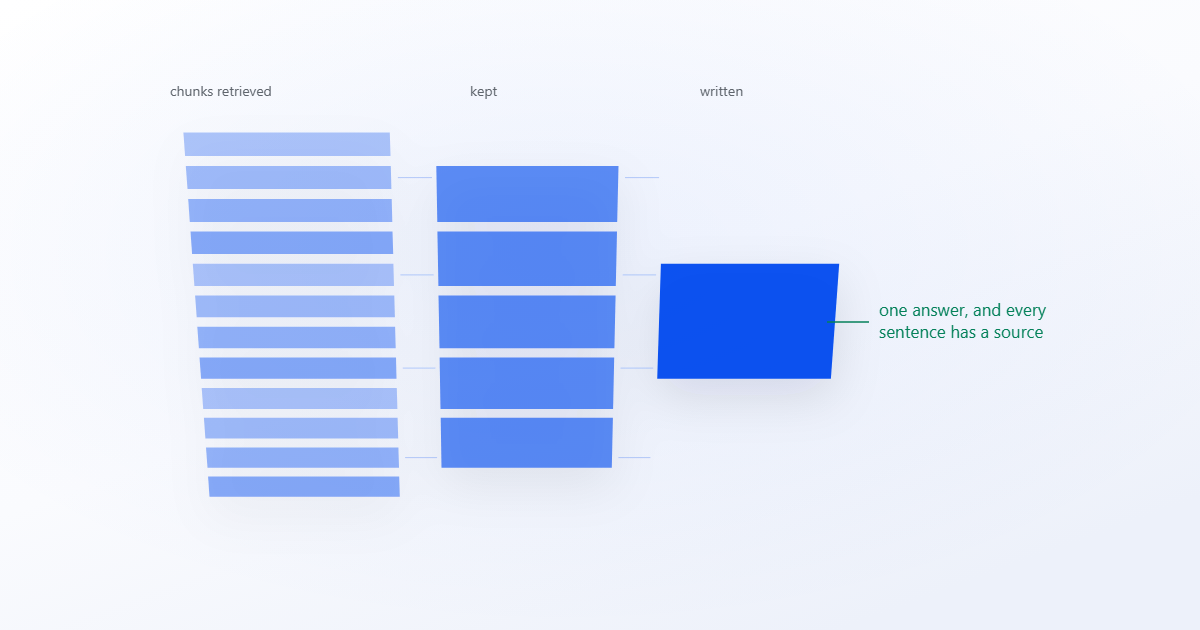
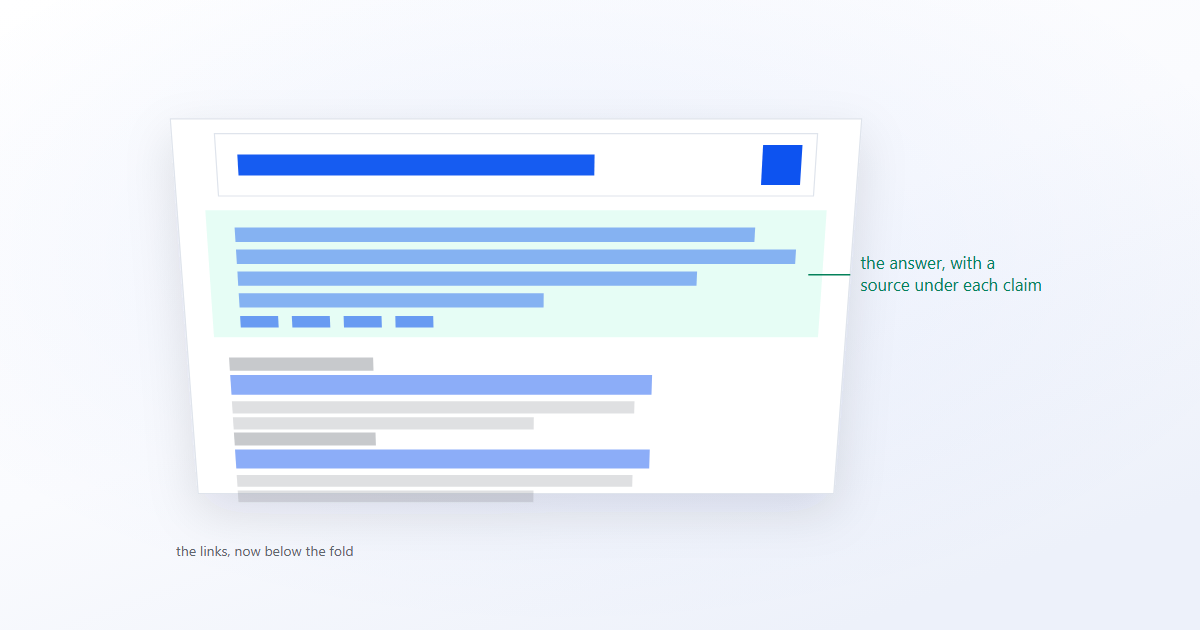
Draw the thing, not a bar chart of it
Seven of twenty covers were horizontal bars, and a bar says nothing to a
reader who has not already read the post. A bar chart is the right figure
when the subject is a quantity. For most of these the subject is a screen,
and anyone who has used Google knows what one looks like, so drawing it
carries more in less ink.

  the series      a search page: the box, the typed query, three results
                  with a url, a blue title and two lines of snippet
  AI Overviews    the same page with the answer panel above the links,
                  citation chips under it, and the first blue link pushed
                  to the edge of the frame
  AI Mode         a question, six sub-queries fanned out as chips, lines
                  converging into one written answer
  the CMS post    three screens: the draft, the rules with two failing,
                  and the page that came out
  vibe code rush  the products themselves on a timeline, app windows with
                  a header and body, the gap between them closing until
                  the last two overlap
  Chinese AI      one small app nobody opens, against a surface full of
                  functions with the same feature embedded inside it

The shipping timeline took two passes. The first drew products as narrow
vertical cards, which is a bar with a different silhouette and read as
one. Widening them into windows with a header strip and body lines is
what makes them products.
[…]

diff --git a/scripts/make-covers.py b/scripts/make-covers.py
@@ -138,6 +138,44 @@ def lifted(marks: str) -> str:
     return f'  <g filter="url(#lift)">{marks}</g>'
 
 
+# --------------------------------------------------- interface primitives
+#
+# A bar chart is the right figure when the subject is a quantity. For most of
+# these posts the subject is a screen, and a reader who has used Google knows
+# what one looks like, so drawing it says more in less ink than any bar could.
+# Rounded corners are unavailable on a projected quadrilateral, so these are
+# plain polygons; at this scale nobody reads the corner.
+
+def slab(p, u0, v0, u1, v1, fill=None, o=1.0, delay=0.0, stroke=None):
+    f = fill or BLUE
+    extra = f' stroke="{stroke}" stroke-width="1.2"' if stroke else ""
+    return (f'<polygon class="c" points="{p.quad(u0, v0, u1, v1)}" fill="{f}"{extra} '
+            f'style="--o:{o};animation-delay:{delay:.2f}s"/>')
+
+
+def textline(p, u0, u1, v, h=0.055, o=0.22, delay=0.0, fill=None):
+    """A line of body text, the way a wireframe draws one."""
+    return slab(p, u0, v - h / 2, u1, v + h / 2, fill or MUTED, o, delay)
+
+
+def searchbox(p, u0, u1, v, query=0.42, delay=0.0):
+    """The box itself: a field, the typed query, and the button."""
+    out = [slab(p, u0, v - 0.075, u1, v + 0.075, "#ffffff", 1, delay, RULE)]
+    out.append(textline(p, u0 + 0.03, u0 + 0.03 + query, v, 0.05, 0.9, delay + 0.1, BLUE))
+    out.append(slab(p, u1 - 0.075, v - 0.048, u1 - 0.02, v + 0.048, BLUE, 0.95, delay + 0.15))
+    return "".join(out)
+
+
+def result(p, u0, v, w=0.62, delay=0.0, title_o=0.95):
+    """One organic result: url, blue title, two lines of snippet."""
+    return "".join([
+        textline(p, u0, u0 + w * 0.34, v, 0.035, 0.35, delay),
+        textline(p, u0, u0 + w, v + 0.055, 0.052, title_o, delay + 0.04, BLUE),
+        textline(p, u0, u0 + w * 0.96, v + 0.115, 0.033, 0.20, delay + 0.08),
+        textline(p, u0, u0 + w * 0.72, v + 0.158, 0.033, 0.20, delay + 0.10),
+    ])
+
+
 # ------------------------------------------------------------------ figures
 
 def crawling() -> str:
@@ -268,29 +306,21 @@ def pagerank() -> str:
 
 
 def ai_overviews() -> str:
-    """#6 — retrieval into generation. Many chunks narrow into one answer."""
-    p = Plane(516, 322, 660, 450, 3, 12)
-    out = []
-    for i in range(12):
-        out.append(f'<polygon class="c" points="{p.quad(0.05, i + 0.15, 0.95, i + 0.85)}" '
-                   f'fill="{BLUE}" style="--o:{0.30 + 0.05 * (i % 4):.2f};animation-delay:{i * 0.05:.2f}s"/>')
-    for i in range(5):
-        out.append(f'<polygon class="c" points="{p.quad(1.15, i * 2 + 1.15, 1.95, i * 2 + 2.85)}" '
-                   f'fill="{BLUE}" style="--o:0.62;animation-delay:{0.7 + i * 0.07:.2f}s"/>')
-    out.append(f'<polygon class="c" points="{p.quad(2.15, 4.15, 2.95, 7.85)}" fill="{BLUE}" '
-               f'style="--o:0.95;animation-delay:1.15s"/>')
-    for a, b in ((0.98, 1.13), (1.98, 2.13)):
-        for i in range(4):
-            x0, y0 = p(a, 1.5 + i * 3)
-            x1, y1 = p(b, 1.5 + i * 3)
-            out.append(f'<line class="c" x1="{x0:.1f}" y1="{y0:.1f}" x2="{x1:.1f}" y2="{y1:.1f}" '
-                       f'stroke="{BLUE}" stroke-width="1" style="--o:0.25;animation-delay:0.9s"/>')
-    nx, ny = p(2.95, 6)
+    """#6 — what the page looks like once the answer arrives above the links."""
+    p = Plane(516, 314, 690, 470, 1, 1)
+    out = [slab(p, 0.02, 0.02, 0.98, 0.98, "#ffffff", 1, 0, RULE)]
+    out.append(searchbox(p, 0.08, 0.92, 0.13, 0.50, 0.1))
+    out.append(slab(p, 0.06, 0.24, 0.94, 0.56, ACCENT, 0.10, 0.35))
+    for i, w in enumerate([0.74, 0.80, 0.66, 0.44]):
+        out.append(textline(p, 0.10, 0.10 + w, 0.30 + i * 0.055, 0.036, 0.42, 0.45 + i * 0.06, BLUE))
+    for k in range(4):
+        out.append(slab(p, 0.10 + k * 0.075, 0.505, 0.155 + k * 0.075, 0.535, BLUE, 0.55, 0.75 + k * 0.05))
+    for i in range(2):
+        out.append(result(p, 0.08, 0.63 + i * 0.20, 0.62, 0.95 + i * 0.1, 0.45))
+    nx, ny = p(0.94, 0.40)
     return wrap(lifted("".join(out))
-                + note(nx + 34, ny, ["one answer, and every", "sentence has a source"])
-                + text(None, 170, 96, "chunks retrieved", 14, MUTED, "start")
-                + text(None, 470, 96, "kept", 14, MUTED, "start")
-                + text(None, 700, 96, "written", 14, MUTED, "start"))
+                + note(nx + 28, ny, ["the answer, with a", "source under each claim"])
+                + text(None, 176, 556, "the links, now below the fold", 14, MUTED, "start"))
 
 
 def reranking() -> str:
@@ -316,30 +346,27 @@ def reranking() -> str:
 
 
 def ai_mode() -> str:
-    """#8 — fan-out. One question becomes several searches, then one answer."""
-    p = Plane(516, 320, 620, 450, 1, 1)
-    subs = [0.14, 0.31, 0.5, 0.69, 0.86]
-    out = []
-    for i, s in enumerate(subs):
-        out.append(f'<path class="draw" d="{p.path([(0.5, 0.06), (0.5, 0.2), (s, 0.34), (s, 0.5)])}" '
-                   f'fill="none" stroke="{BLUE}" stroke-width="1.5" opacity="0.45" '
-                   f'style="--len:400;animation-delay:{i * 0.07:.2f}s"/>')
-        out.append(f'<path class="draw" d="{p.path([(s, 0.66), (s, 0.8), (0.5, 0.9), (0.5, 0.96)])}" '
-                   f'fill="none" stroke="{BLUE}" stroke-width="1.5" opacity="0.45" '
-                   f'style="--len:400;animation-delay:{0.5 + i * 0.07:.2f}s"/>')
-        for k in range(3):
-            x, y = p(s + (k - 1) * 0.035, 0.58)
-            out.append(f'<circle class="c" cx="{x:.1f}" cy="{y:.1f}" r="6" fill="{BLUE}" '
-                       f'style="--o:{0.8 - k * 0.2:.2f};animation-delay:{0.35 + i * 0.07:.2f}s"/>')
-    for u, v, r, o in ((0.5, 0.06, 13, 0.95), (0.5, 0.96, 15, 1.0)):
-        x, y = p(u, v)
-        out.append(f'<circle class="c" cx="{x:.1f}" cy="{y:.1f}" r="{r}" fill="{BLUE}" '
-                   f'style="--o:{o};animation-delay:0.1s"/>')
-    nx, ny = p(0.86, 0.58)
+    """#8 — one question becomes several searches, and one answer comes back."""
+    p = Plane(516, 314, 700, 470, 1, 1)
+    out = [slab(p, 0.02, 0.02, 0.98, 0.98, "#ffffff", 1, 0, RULE)]
+    out.append(searchbox(p, 0.08, 0.92, 0.12, 0.56, 0.1))
+    chips = [(0.09, 0.24), (0.35, 0.20), (0.60, 0.26), (0.09, 0.19), (0.31, 0.23), (0.57, 0.21)]
+    for k, (u, w) in enumerate(chips):
+        v = 0.29 if k < 3 else 0.375
+        out.append(slab(p, u, v - 0.032, u + w, v + 0.032, BLUE, 0.13, 0.4 + k * 0.06))
+        out.append(textline(p, u + 0.02, u + w - 0.03, v, 0.03, 0.45, 0.45 + k * 0.06, BLUE))
+    for k, (u, w) in enumerate(chips):
+        v = 0.29 if k < 3 else 0.375
+        sx, sy = p(u + w / 2, v + 0.04)
+        ex, ey = p(0.5, 0.52)
+        out.append(f'<line class="c" x1="{sx:.1f}" y1="{sy:.1f}" x2="{ex:.1f}" y2="{ey:.1f}" '
+                   f'stroke="{BLUE}" stroke-width="1" style="--o:0.18;animation-delay:0.85s"/>')
+    out.append(slab(p, 0.06, 0.55, 0.94, 0.93, ACCENT, 0.10, 0.95))
+    for i, w in enumerate([0.78, 0.82, 0.70, 0.76, 0.50]):
+        out.append(textline(p, 0.10, 0.10 + w, 0.61 + i * 0.062, 0.036, 0.40, 1.05 + i * 0.05, BLUE))
+    nx, ny = p(0.83, 0.33)
     return wrap(lifted("".join(out))
-                + note(nx + 40, ny, ["five searches the user", "never typed"])
-                + text(None, 176, 108, "one question", 14, MUTED, "start")
-                + text(None, 176, 560, "one answer", 14, MUTED, "start"))
+                + note(nx + 30, ny, ["six searches the user", "never typed"]))
 
 
 def measuring() -> str:
@@ -366,47 +393,63 @@ def measuring() -> str:
 # ------------------------------------------------- the standalone essays
 
 def chinese_wisdom() -> str:
-    """Where the AI lives. A separate destination nobody visits, against a
-    function embedded in the surface people are already inside all day."""
-    p = Plane(516, 320, 660, 430, 2, 8)
+    """A destination nobody opens, against a function inside the app they live in."""
+    p = Plane(516, 314, 720, 450, 2, 1)
     out = []
-    for i in range(8):
-        o = 0.16 + 0.04 * (i % 3)
-        out.append(f'<polygon class="c" points="{p.quad(0.04, i + 0.18, 0.42, i + 0.82)}" '
-                   f'fill="{BLUE}" style="--o:{o:.2f};animation-delay:{i * 0.05:.2f}s"/>')
-    out.append(f'<polygon class="c" points="{p.quad(1.10, 0.18, 1.96, 7.82)}" fill="{BLUE}" '
-               f'style="--o:0.12;animation-delay:0.5s"/>')
-    for i in range(8):
-        out.append(f'<polygon class="c" points="{p.quad(1.20, i + 0.28, 1.86, i + 0.72)}" '
-                   f'fill="{BLUE}" style="--o:0.78;animation-delay:{0.7 + i * 0.05:.2f}s"/>')
-    nx, ny = p(1.96, 4)
+    out.append(slab(p, 0.20, 0.30, 0.62, 0.70, "#ffffff", 1, 0.1, RULE))
+    out.append(slab(p, 0.34, 0.40, 0.48, 0.53, BLUE, 0.85, 0.2))
+    out.append(textline(p, 0.28, 0.54, 0.60, 0.035, 0.28, 0.25))
+    out.append(slab(p, 1.10, 0.06, 1.92, 0.94, "#ffffff", 1, 0.45, RULE))
+    out.append(textline(p, 1.18, 1.62, 0.14, 0.045, 0.30, 0.5))
+    for r in range(3):
+        for c in range(4):
+            u = 1.18 + c * 0.18
+            v = 0.26 + r * 0.19
+            embedded = (r, c) == (1, 2)
+            out.append(slab(p, u, v, u + 0.13, v + 0.13,
+                            ACCENT if embedded else BLUE,
+                            0.9 if embedded else 0.20, 0.55 + (r * 4 + c) * 0.04))
+    out.append(slab(p, 1.18, 0.84, 1.84, 0.90, BLUE, 0.14, 0.95))
+    nx, ny = p(1.62, 0.45)
     return wrap(lifted("".join(out))
-                + note(nx + 34, ny, ["one surface people are", "already inside all day"])
-                + text(None, 196, 96, "a place to go", 14, MUTED, "start")
-                + text(None, 560, 96, "somewhere they already are", 14, MUTED, "start"))
+                + note(nx + 40, ny, ["the same feature, where", "they already spend the day"])
+                + text(None, 210, 96, "an app to open", 14, MUTED, "start")
+                + text(None, 620, 96, "an app they never close", 14, MUTED, "start"))
 
 
 def vibe_code_rush() -> str:
-    """How fast a product now gets built, using the post's own four numbers."""
-    p = Plane(516, 322, 620, 420, 1, 4)
-    rows = [("first product", 30 * 24, "30 days"), ("second", 15 * 24, "15 days"),
-            ("later ones", 4, "4 hours"), ("now", 1, "1 hour")]
-    top = rows[0][1]
+    """Products shipping, and the gap between them collapsing.
+
+    Drawn as the things themselves - little app windows on a timeline - because
+    a bar chart of elapsed time says nothing to a reader who has not already
+    read the post.
+    """
+    p = Plane(516, 312, 700, 400, 1, 1)
+    ships = [(0.02, "30 days"), (0.30, "15 days"), (0.545, "4 hours"), (0.715, "1 hour"),
+             (0.845, ""), (0.915, "")]
+    w, h = 0.115, 0.44
     out = []
-    for i, (name, hours, label) in enumerate(rows):
-        w = max(0.012, hours / top)
-        last = i == len(rows) - 1
-        out.append(f'<polygon class="c" points="{p.quad(0, i + 0.22, w, i + 0.78)}" '
-                   f'fill="{ACCENT if last else BLUE}" style="--o:{1 if last else 0.85};'
-                   f'animation-delay:{i * 0.12:.2f}s"/>')
-        lx, ly = p(0, i + 0.5)
-        out.append(text(None, lx - 14, ly + 5, name, 14, MUTED, "end"))
-        vx, vy = p(w, i + 0.5)
-        out.append(text(None, vx + 12, vy + 5, label, 14, INK, "start", "500"))
-    nx, ny = p(0.02, 3.5)
+    x0, y0 = p(-0.01, 0.74)
+    x1, y1 = p(0.99, 0.74)
+    out.append(f'<line x1="{x0:.1f}" y1="{y0:.1f}" x2="{x1:.1f}" y2="{y1:.1f}" stroke="{RULE}"/>')
+    for k, (u, label) in enumerate(ships):
+        late = k >= 3
+        top = 0.74 - h
+        out.append(slab(p, u, top, u + w, 0.74, "#ffffff", 1, k * 0.13, RULE))
+        out.append(slab(p, u, top, u + w, top + 0.052, ACCENT if late else BLUE,
+                        0.9, k * 0.13 + 0.04))
+        for i, ww in enumerate([0.72, 0.86, 0.54, 0.80, 0.46]):
+            out.append(textline(p, u + 0.014, u + 0.014 + (w - 0.028) * ww,
+                                top + 0.11 + i * 0.062, 0.030, 0.22, k * 0.13 + 0.07 + i * 0.02))
+        tick_x, tick_y = p(u + w / 2, 0.74)
+        out.append(f'<line x1="{tick_x:.1f}" y1="{tick_y:.1f}" x2="{tick_x:.1f}" '
+                   f'y2="{tick_y + 8:.1f}" stroke="{MUTED}" stroke-width="1.1"/>')
+        if label:
+            out.append(text(None, tick_x, tick_y + 30, label, 14, MUTED))
+    nx, ny = p(0.915 + w, 0.50)
     return wrap(lifted("".join(out))
-                + note(nx + 150, ny, ["from a month", "to an hour"])
-                + text(None, 300, 566, "time to ship one product, same builder", 14, MUTED, "start"))
+                + note(nx + 30, ny, ["same builder, and the", "gap keeps closing"])
+                + text(None, 176, 104, "each product, and how long it took", 14, MUTED, "start"))
 
 
 def keyword_clustering() -> str:
@@ -478,21 +521,29 @@ def blueprint() -> str:
 
 
 def cms_pipeline() -> str:
-    """One model call, and how much of its answer survives the rules."""
-    p = Plane(516, 320, 620, 420, 1, 3)
-    rows = [("what the model wrote", 1.0, 0.30), ("what passed the rules", 0.62, 0.62),
-            ("what got published", 0.48, 1.0)]
+    """A draft, the rules it has to pass, and the page that comes out."""
+    p = Plane(516, 314, 730, 440, 3, 1)
     out = []
-    for i, (name, w, o) in enumerate(rows):
-        last = i == len(rows) - 1
-        out.append(f'<polygon class="c" points="{p.quad(0, i + 0.22, w, i + 0.78)}" '
-                   f'fill="{ACCENT if last else BLUE}" style="--o:{o};animation-delay:{i * 0.14:.2f}s"/>')
-        lx, ly = p(0, i + 0.5)
-        out.append(text(None, lx - 14, ly + 5, name, 14, MUTED, "end"))
-    nx, ny = p(0.48, 2.5)
+    out.append(slab(p, 0.05, 0.06, 0.92, 0.94, "#ffffff", 1, 0, RULE))
+    for i, w in enumerate([0.62, 0.70, 0.55, 0.68, 0.44, 0.66, 0.38]):
+        out.append(textline(p, 0.12, 0.12 + w * 0.9, 0.17 + i * 0.105, 0.045, 0.24, 0.1 + i * 0.04))
+    out.append(slab(p, 1.06, 0.06, 1.93, 0.94, "#ffffff", 1, 0.5, RULE))
+    checks = [True, True, False, True, True, False, True]
+    for i, ok in enumerate(checks):
+        v = 0.17 + i * 0.105
+        col = ACCENT if ok else BLUE
+        out.append(slab(p, 1.13, v - 0.03, 1.19, v + 0.03, col, 0.9 if ok else 0.22, 0.6 + i * 0.05))
+        out.append(textline(p, 1.23, 1.23 + (0.5 if ok else 0.34), v, 0.04, 0.22, 0.62 + i * 0.05))
+    out.append(slab(p, 2.07, 0.06, 2.94, 0.94, "#ffffff", 1, 1.1, RULE))
+    out.append(textline(p, 2.14, 2.72, 0.16, 0.055, 0.9, 1.2, BLUE))
+    for i, w in enumerate([0.68, 0.74, 0.60, 0.70, 0.46]):
+        out.append(textline(p, 2.14, 2.14 + w, 0.28 + i * 0.088, 0.04, 0.22, 1.25 + i * 0.04))
+    nx, ny = p(1.93, 0.485)
     return wrap(lifted("".join(out))
-                + note(nx + 40, ny, ["one call, and the half", "of it worth keeping"])
-                + text(None, 330, 566, "a single generation, then the checks", 14, MUTED, "start"))
+                + note(nx + 26, ny, ["two rules it failed,", "so it went back"])
+                + text(None, 178, 566, "draft", 14, MUTED, "start")
+                + text(None, 480, 566, "the checks", 14, MUTED, "start")
+                + text(None, 790, 566, "published", 14, MUTED, "start"))
 
 
 def agent_platform() -> str:
@@ -569,22 +620,15 @@ def less_agentic() -> str:
 
 
 def series_search_engine() -> str:
-    """The whole series in one picture: what each stage hands the next."""
-    p = Plane(516, 320, 660, 430, 6, 1)
-    stages = [("crawl", 1.00), ("index", 0.86), ("BM25", 0.55), ("PageRank", 0.38),
-              ("rerank", 0.16), ("answer", 0.05)]
-    out = []
-    for i, (name, h) in enumerate(stages):
-        last = i == len(stages) - 1
-        out.append(f'<polygon class="c" points="{p.quad(i + 0.14, 0.5 - h / 2, i + 0.86, 0.5 + h / 2)}" '
-                   f'fill="{ACCENT if last else BLUE}" style="--o:{1 if last else 0.30 + i * 0.11:.2f};'
-                   f'animation-delay:{i * 0.11:.2f}s"/>')
-        lx, ly = p(i + 0.5, 1.0)
-        out.append(text(None, lx, ly + 30, name, 14, MUTED))
-    nx, ny = p(6, 0.5)
+    """The series in one picture: the thing being rebuilt, a search page."""
+    p = Plane(516, 314, 700, 460, 1, 1)
+    out = [slab(p, 0.02, 0.02, 0.98, 0.98, "#ffffff", 1, 0, RULE)]
+    out.append(searchbox(p, 0.08, 0.92, 0.16, 0.46, 0.15))
+    for i in range(3):
+        out.append(result(p, 0.08, 0.34 + i * 0.22, 0.66, 0.45 + i * 0.14))
+    nx, ny = p(0.74, 0.39)
     return wrap(lifted("".join(out))
-                + note(nx + 26, ny, ["each stage is slower", "and sees fewer"])
-                + text(None, 190, 96, "documents reaching each stage", 14, MUTED, "start"))
+                + note(nx + 40, ny, ["nine parts, from the", "crawler to this page"]))
 
 
 COVERS = {
